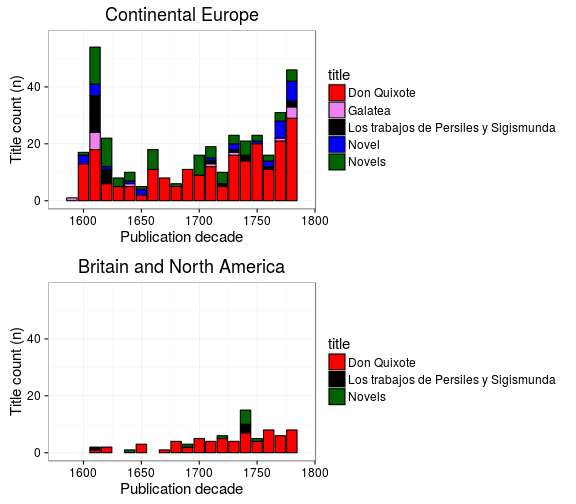
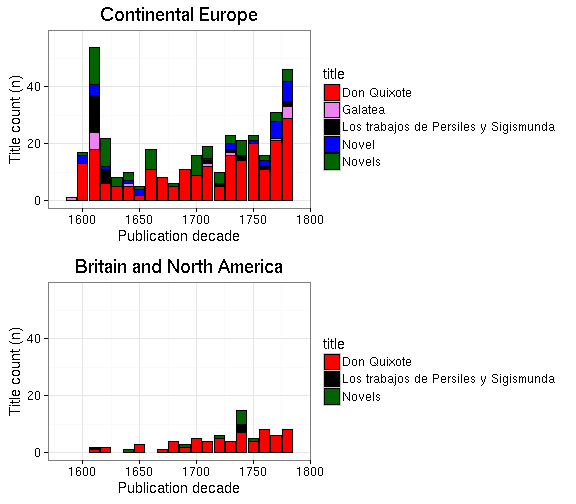
ok

diff --git a/_posts/2016-04-23-Shakespeare.md b/_posts/2016-04-23-Shakespeare.md
@@ -75,42 +75,13 @@ No real surprises here. Collected works and plays are of course an important sou
 What is telling when comparing Cervantes on the continent and his popularity in the English-speaking world is that Galatea (Cervantes’s first published work) does very well on the continent, but is not published in English during the early modern period. At the same time it is very clear that Don Quixote is THE single work by any author in early modern Europe (including the English-speaking world).
  
 
-
-{% highlight text %}
-## Error: All select() inputs must resolve to integer column positions.
-## The following do not:
-## *  n
-{% endhighlight %}
-
-
-
-{% highlight text %}
-## Error in pics[["cerl"]] + ggtitle("Continental Europe"): non-numeric argument to binary operator
-{% endhighlight %}
-
-
-
-{% highlight text %}
-## Error in pics[["estc"]] + ggtitle("Britain and North America"): non-numeric argument to binary operator
-{% endhighlight %}
-
-
-
-{% highlight text %}
-## Error in pics[[1]]: subscript out of bounds
-{% endhighlight %}
+<img src="/figs/2016-04-23-Shakespeare/shakespeare-cervantes-1.png" title="center" alt="center" width="800px" />
 
 
 ### Comparison of popular titles
  
 On this timeline we see a very interesting contest. Don Quixote’s train-like rise throughout the early modern era is impressive indeed. Hamlet sees an interesting peak in English-speaking world in 1750s to be followed by the rise of the comedies and rapid sinking of the publishing of the Danish prince. Same thing happens to Romeo and Juliet shortly after. Macbeth on the other hand seems to follow a different, upward path towards the late eighteenth century. 
 
-
-
-{% highlight text %}
-## Error: Each variable must have a unique name.
-## Problem variables: 'publication_decade'
-{% endhighlight %}
 
 <img src="/figs/2016-04-23-Shakespeare/shakespeare-titles2-1.png" title="center" alt="center" width="700px" />
 
